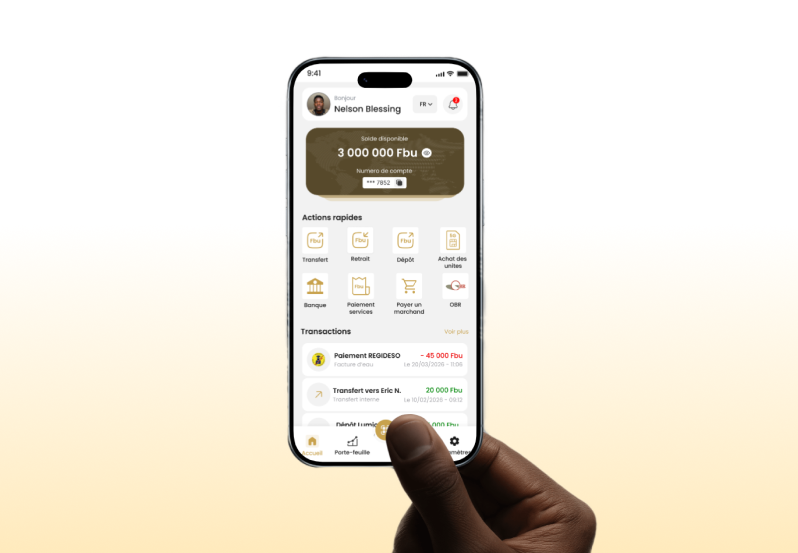
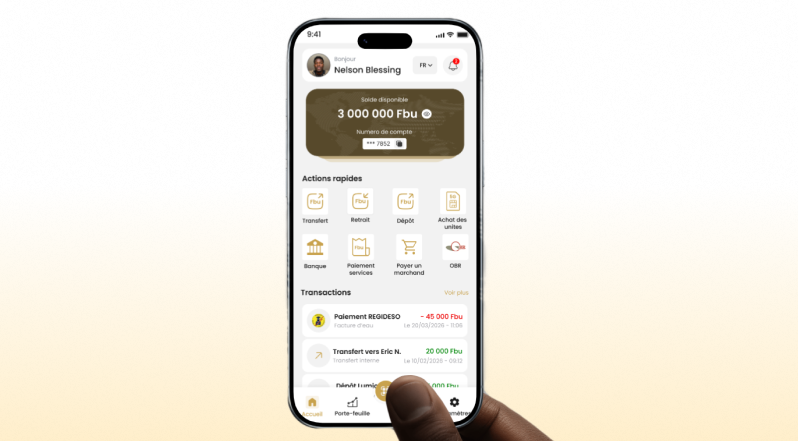
add new change

Changed region(s): [[0.3609, 0.0295, 0.7519, 1.0]]

diff --git a/style CSS/header nav.css b/style CSS/header nav.css
@@ -5,19 +5,18 @@
   align-items: center;
   justify-content: center;
   gap: 20px;
-  position: sticky;
-  top: 0;
-  right: 10px;
   z-index: 1000;
   isolation: isolate;
+  margin-top: 1rem;
+  border-radius: 100%;
 
   
 }
 .header-flex{
-  width: 1200px;
+  width: 1000px;
   height: 75px;
   display: flex;
-  position: relative;
+  gap: 10%;
   flex-direction: row;
   background-color: rgba(255, 255, 255,0.4) ;
   margin-top: 10px;
@@ -71,20 +70,20 @@
 
 .resume-button{
 
-  background-color: rgba(255, 255, 255,0.8);
+  
   color: rgba(0, 0, 0,0.65);
   border-color:rgba(0, 132, 255, 0.05);
   cursor: pointer;
   font-family: "Space Grotesk", sans-serif;
-  padding: 10px 5px;
-  border-radius: 100%;
+  padding: 10px 10px;
+  border-radius: 50%;
   font-weight: 0px;
   transition: background-color 0.2s;
-  transition: all 0.2s;
+  transition: all 0.5s ease-in-out;
 
 }
 .resume-button:hover{
-  background-color: rgba(0, 0, 0,0.05);
+  background-color:rgba(0, 132, 255, 0.051);
   color: rgb(38, 38, 38);
       
 }
@@ -108,9 +107,10 @@
 
 
 .container-darkmode{
+  display: flex;
   font-size: 32px;
-  height: 32px;
-  width: 32px;
+  height: 42px;
+  width: 42px;
   align-items: center;
   padding-top: 10px;
   background-color: rgba(255, 255, 255, 0.1);
@@ -124,7 +124,7 @@
 }
 
 .container-darkmode:hover{
-  background-color: rgba(0, 0, 0, 0.05);
+  background-color:rgba(0, 132, 255, 0.051);
 }
   
 
@@ -152,7 +152,7 @@
 }
 }
 
-@media screen and (min-width: 1024px) {
+@media screen and (max-width: 1024px) {
 
   .allheader-flex{
     justify-content: center;
@@ -160,7 +160,7 @@
   }
 
   .header-flex{
-    width:750px;         
+    width:70%;         
 
   
   }
@@ -171,7 +171,8 @@
 
 @media screen and (max-width: 768px) {
   .allheader-flex{
-    justify-content: space-between;
+    width: 100%;
+    right: 0%;
     padding: 0 0px;
   }
 
@@ -184,8 +185,6 @@
     padding-right: 15px;
     margin-top: 0;
   }
-
-  
 
   .right-sider{
     display: none !important;
@@ -206,9 +205,9 @@
   }
 
   .container-darkmode{
-    font-size: 28px;
-    height: 28px;
-    width: 28px;
+    font-size: 38px;
+    height: 32px;
+    width: 3px;
     position: fixed;
     top: 20px;
     right: 90px;
@@ -217,9 +216,13 @@
 }
 
 @media screen and (max-width: 480px) {
-
+  .allheader-flex{
+    border-radius: 1000%;
+  }
   .header-flex{
+    width: 310px;
     height: 55px;
+   
   }
   
   .projet-button {
@@ -228,11 +231,12 @@
   }
   
   .container-darkmode{
-    top: 24px;
-    left: 2800px;
-    font-size: 20px;
-    height: 20px;
-    width: 20px;
+    position: relative;
+    top: 0px;
+    right:10px ;
+    font-size: 28px;
+    height: 42px;
+    width: 42px;
   }
   
   .icon-burger-container{

diff --git a/style CSS/card.css b/style CSS/card.css
@@ -260,7 +260,7 @@
   max-height: 100px;
   height: 32px;
   border-radius: 36px;
-  background-color: rgba(0, 0, 0,0.05);
+  background-color:rgba(0, 132, 255, 0.051);
   border:rgba(0, 132, 255, 0.4) solid  1px 36px;
   color: rgba(0, 0, 0, 0.7);
   font-weight: 300;
@@ -274,7 +274,7 @@
 .subheadr2 {
   height: 32px;
   border-radius: 36px;
-  background-color: rgba(0, 0, 0,0.05);
+  background-color: rgba(0, 132, 255, 0.051);
   border:rgba(0, 132, 255, 0.4) solid  1px 36px;
   color: rgba(0, 0, 0, 0.7);
   font-weight: 300;
@@ -292,7 +292,7 @@
   text-align: center;
   font-size: 16px;
   color: rgba(0, 0, 0, 0.7);
-  background-color: rgba(0, 0, 0,0.05);
+  background-color: rgba(0, 132, 255, 0.051);
   border:rgba(0, 132, 255, 0.1) solid  1px 36px;
   padding-left: 10px;
   padding-right: 10px;
@@ -325,8 +325,9 @@
 
 
 .header-logo {
-  width: 48px;
-  height: 48px;
+  display: flex;
+  width: 72px;
+  height: 72px;
   position: relative;
   top: 50px;
   left: 48px;
@@ -348,13 +349,15 @@
   color: rgb(255, 255, 255);
   font-size: 24px;
   top: 20px;
-  left:60px;
+  left:65px;
   z-index: -1;
 }
 
 .header-logo1 {
-  width: 42px;
-  height: 42px;
+  display: flex;
+  flex-direction: center;
+  width: 72px;
+  height: 72px;
   position: relative;
   top: 335px;
   left: 55px;
@@ -371,9 +374,8 @@
   position:absolute ;
   color: rgb(255, 255, 255);
   font-size: 24px;
-  
-  top: 15px;
-  left:56px;
+  top: 20px;
+  left:65px;
   z-index: -1;
 }
 
@@ -381,15 +383,15 @@
 
 
 .logo {
-
-  width: 48px;
-  height: 48px;
+  object-fit: contain;
+  width: 42px;
   z-index: 100;
   border-radius: 4px;
 }
 
 .logo1 {
-  width: 42px;
+  object-fit: contain;
+  width: 52px;
 }
 
 .bar1 {
@@ -407,7 +409,7 @@
 
 .card-content {
   width: 100%;
-  height: 80%;
+  height: 100%;
   max-width: 1300px;
   max-height: 305px;
   margin-left: 86px;
@@ -583,7 +585,7 @@
     margin: 2px 0px;
   }
   .card-experience{
-    padding-top: 1em;
+    padding-top: 0.5em;
   }
 
   .card-case {
@@ -601,14 +603,14 @@
     left: 160px;
   }
   .header-logo1{
-    top: 475px;
-    left: 100px;
+    top: 660px;
+    left: 140px;
     
   }
 
   .arrow-container-2{
-    top: 50px;
-    left: 22px;
+    top: 63px;
+    left: 27px;
     transform: rotate(90deg);
 
   }
@@ -624,7 +626,7 @@
     z-index: -1;
   }
   .card-content {
-    width: 82%;
+    width: 95%;
     height: auto;
     max-width: 410px;
     max-height: none;
@@ -639,7 +641,9 @@
   }
 
   .header-1{
-   max-width: 1000px; 
+    display: flex;
+    flex-direction: column;
+   width: 100%; 
   }
 
   .company {

diff --git a/style CSS/nameinto.css b/style CSS/nameinto.css
@@ -307,7 +307,7 @@ body {
   }
 
   .button-CV{
-    max-width: 210px;
+    max-width: 220px;
     width: 100%;
     gap: 0px;
     align-items: center;
@@ -319,8 +319,10 @@ body {
     align-items: center;
   }
   .icon-arrow{
-    font-size: 24px;
-    height: 24px;
+    display: flex;
+    font-size: 28px;
+    height: 45px;
+    width: 45px;
     padding: 8px 8px;
   }
 
@@ -366,7 +368,7 @@ body {
 
 
 
-@media screen and (max-width: 500px){
+@media screen and (max-width: 468px){
   .hi1{
     font-size: clamp(18px, 10vw, 28px);
   }
@@ -432,8 +434,8 @@ body {
   }
   
   .icon-arrow{
-    font-size: 20px;
-    height: 20px;
+    font-size: 24px;
+    height: 38px;
     padding: 8px 6px;
   }
 

diff --git a/style CSS/getintouch.css b/style CSS/getintouch.css
@@ -45,10 +45,12 @@
 }
 
 .icon {
+  display: flex;
+  align-content: center;
   background-color: rgba(0, 0, 0, 0.05);
   font-size: 24px;
-  width: 24px;
-  height: 24px;
+  width: 32px;
+  height: 32px;
   padding: 5px 5px 5px 5px;
   align-content: center;
   border-radius: 4px;

diff --git a/style CSS/main.css b/style CSS/main.css
@@ -1,6 +1,18 @@
+*,
+*::before,
+*::after {
+  box-sizing: border-box;
+}
+
+html {
+  overflow-x: hidden;
+}
+
 body {
+  width: 100%;
   overflow-x: hidden;
   background-color: rgba(0, 132, 255, 0.051);
   font-family: "Space Grotesk", sans-serif;
   margin: 0;
+ 
 }

diff --git a/style CSS/icon.css b/style CSS/icon.css
@@ -118,8 +118,8 @@
   align-items: center;
   justify-content: start;
   font-size: 32px;
-  width: 24px;
-  height: 24px;
+  width: 32px;
+  height: 32px;
   padding: 4px 4px;
   border-radius: 50%;
   background-color: rgba(0, 0, 0, 0.05);

diff --git a/style CSS/header button.css b/style CSS/header button.css
@@ -1,5 +1,7 @@
 
-
+body{
+  overflow-x: hidden;
+}
 button {
   font-family: "Space Grotesk", sans-serif;
 }
